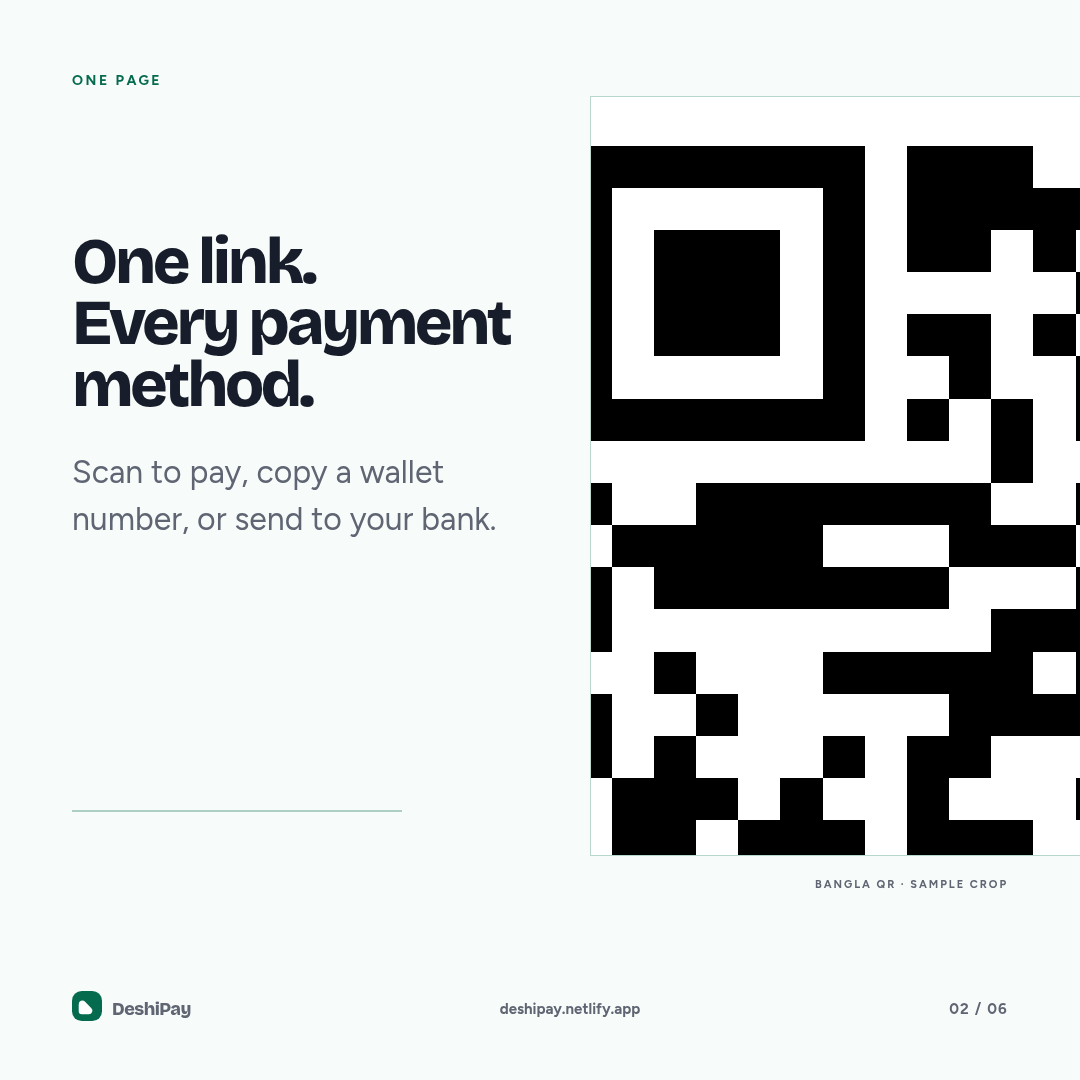
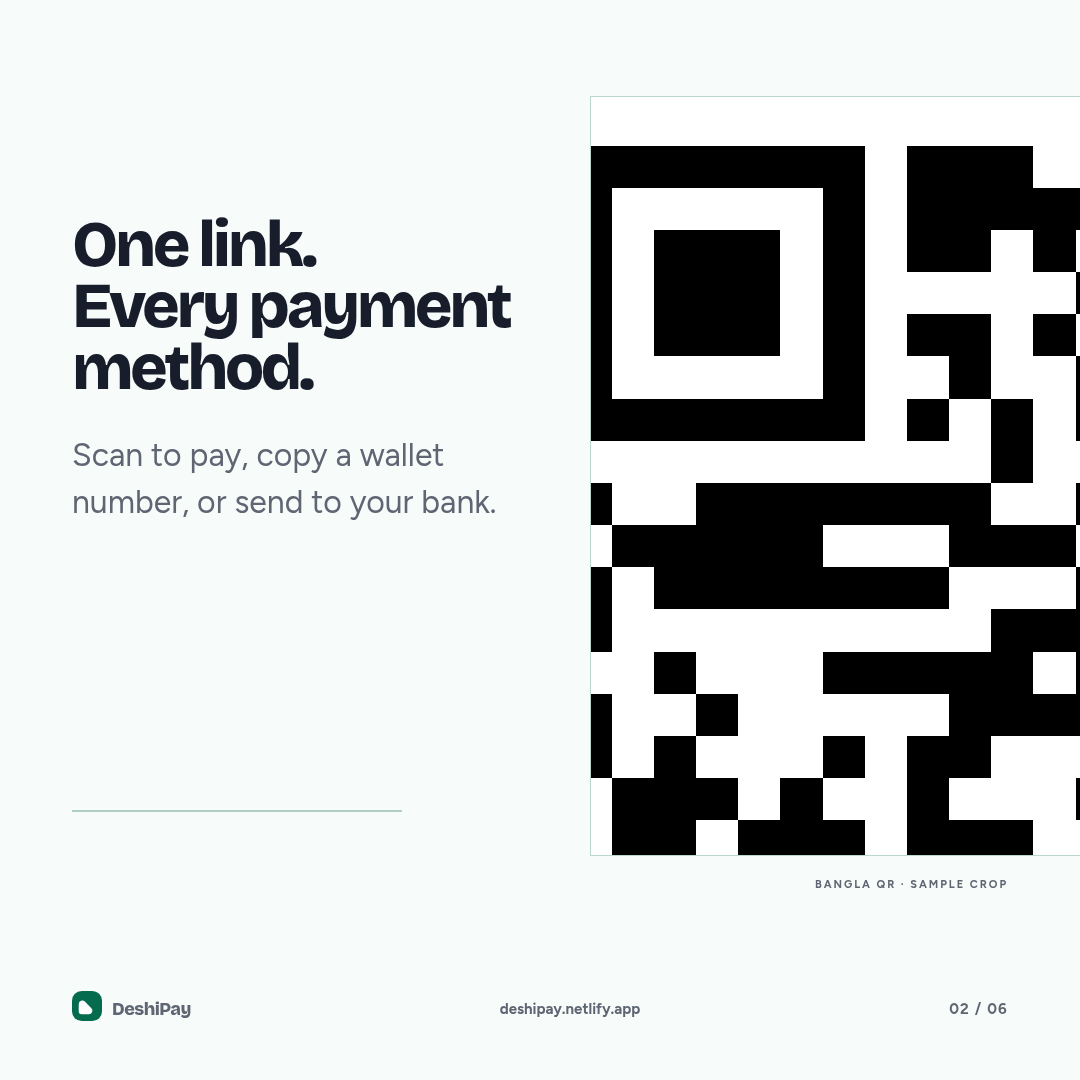
design: remove eyebrow labels; rebuild page 4 as QR-to-account
Drop the small kicker text from every social slide and replace page 4's
phone mockup with a Bangla QR poster connected directly to a 'Your account'
card, with the page marked as not in the money path.

Changed region(s): [[0.0611, 0.1833, 0.4889, 0.4889], [0.0611, 0.0611, 0.1528, 0.0917]]

diff --git a/promotionals/social/source/social.html b/promotionals/social/source/social.html
@@ -52,7 +52,7 @@
   /* page 6 ledger */
   #s6 { background: radial-gradient(circle at 82% 8%, rgba(52,214,164,.14), transparent 46%), var(--dark); }
   #s6 .kicker { color:var(--bright); }
-  #s6 .s6-head { position:relative; z-index:4; margin:64px 0 0; font-family:"Bricolage Grotesque",Arial,sans-serif; font-size:76px; line-height:.98; letter-spacing:-.05em; color:#fff; }
+  #s6 .s6-head { position:relative; z-index:4; margin:88px 0 0; font-family:"Bricolage Grotesque",Arial,sans-serif; font-size:76px; line-height:.98; letter-spacing:-.05em; color:#fff; }
   .s6-list { position:absolute; z-index:4; left:72px; right:72px; top:348px; bottom:150px; display:grid; grid-template-rows:repeat(3,1fr); border-top:1px solid rgba(230,240,237,.18); }
   .s6-row { display:grid; grid-template-columns:150px 360px 1fr; align-items:center; gap:24px; padding:0 18px 0 0; border-bottom:1px solid rgba(230,240,237,.18); }
   .s6-num { color:transparent; -webkit-text-stroke:1.5px rgba(52,214,164,.75); font:800 82px/1 "Bricolage Grotesque",Arial,sans-serif; letter-spacing:-.04em; }
@@ -79,29 +79,27 @@
 
   .s3-ghost { position:absolute; z-index:1; left:-42px; bottom:-128px; color:rgba(230,240,237,.045); font:800 450px/1 "Hind Siliguri","Noto Sans Bengali",sans-serif; letter-spacing:-.08em; pointer-events:none; }
   /* 04 phone crop */
-  #s4 .headline { font-size:54px; margin-top:150px; max-width:455px; }
+  #s4 .headline { font-size:54px; margin-top:132px; max-width:455px; }
   #s4 .body { margin-top:28px; max-width:400px; font-size:28px; }
   .s4-small { position:relative; z-index:4; margin:18px 0 0; color:var(--green); font-size:20px; font-weight:700; }
   #s4 .hairline { right:auto; width:500px; }
-  .phone-wrap { position:absolute; z-index:5; right:46px; top:126px; width:470px; }
-  .phone { width:424px; margin-left:auto; padding:10px; border-radius:54px; background:#0B1712; box-shadow:0 40px 80px -20px rgba(8,42,32,.35); transform:rotate(2.5deg); }
-  .screen { border-radius:45px; background:var(--mint); padding:20px 18px; }
-  .mini-brand { display:flex; align-items:center; gap:10px; font:800 20px "Bricolage Grotesque",Arial,sans-serif; }
-  .mini-brand .mark { width:31px; height:31px; }
-  .mini-tabs { display:flex; gap:4px; background:#fff; border-radius:14px; padding:5px; font:700 14px Figtree,sans-serif; color:var(--muted); margin-top:16px; }
-  .mini-tabs span { flex:1; text-align:center; padding:10px 3px; border-radius:10px; }
-  .mini-tabs span.on { color:var(--ink); box-shadow:0 4px 12px rgba(8,42,32,.09); }
-  .card { background:#fff; border-radius:22px; padding:18px; margin-top:14px; color:var(--ink); }
-  .payto { display:flex; justify-content:space-between; align-items:start; gap:10px; }
-  .payto small { color:var(--muted); font-size:13px; }
-  .payto b { font:800 18px "Bricolage Grotesque",Arial,sans-serif; }
-  .amount { display:flex; align-items:baseline; gap:3px; margin:13px 0 9px; font:800 40px "Bricolage Grotesque",Arial,sans-serif; letter-spacing:-.04em; }
-  .amount .sym { color:var(--green); font-size:25px; }
-  .qrbox { width:100%; aspect-ratio:1; background:#fff; overflow:hidden; }
-  .qrbox svg { display:block; width:100%; height:auto; }
-  .note { text-align:center; color:var(--muted); font-size:12.5px; line-height:1.45; margin-top:9px; }
-  .note b { color:var(--ink); }
-
+  .s4-visual { position:absolute; z-index:4; right:34px; top:64px; width:590px; height:930px; }
+  .qr-poster { position:absolute; right:34px; top:0; width:304px; padding:20px; background:#fff; transform:rotate(-3.2deg); box-shadow:0 34px 60px -40px rgba(8,42,32,.5); }
+  .qr-kicker { display:block; color:var(--green); font:800 12px Figtree,sans-serif; letter-spacing:.17em; margin-bottom:12px; }
+  .qr-poster .qrbox { border-radius:0; }
+  .qr-meta { display:flex; flex-direction:column; gap:3px; margin-top:13px; }
+  .qr-meta b { font:800 19px "Bricolage Grotesque",Arial,sans-serif; letter-spacing:-.02em; }
+  .qr-meta span { color:var(--muted); font-size:11px; }
+  .page-tag { position:absolute; left:0; top:390px; width:250px; color:var(--green); font:800 13px Figtree,sans-serif; letter-spacing:.06em; text-transform:uppercase; transform:rotate(-2deg); }
+  .page-tag span { display:block; margin-top:5px; color:var(--muted); font-weight:600; letter-spacing:0; text-transform:none; font-size:13px; }
+  .direct-rail { position:absolute; right:184px; top:414px; height:252px; width:2px; background:var(--green); }
+  .direct-rail:after { content:""; position:absolute; left:-5px; bottom:-2px; width:0; height:0; border-left:6px solid transparent; border-right:6px solid transparent; border-top:9px solid var(--green); }
+  .direct-rail span { position:absolute; left:10px; top:104px; color:var(--green); font:800 11px Figtree,sans-serif; letter-spacing:.18em; white-space:nowrap; transform:rotate(90deg); transform-origin:left top; }
+  .account-card { position:absolute; right:44px; top:620px; width:392px; padding:24px 26px; background:var(--dark); color:#fff; transform:rotate(1.4deg); box-shadow:0 28px 50px -35px rgba(8,42,32,.5); }
+  .acct-label { display:block; color:var(--bright); font:800 11px Figtree,sans-serif; letter-spacing:.18em; }
+  .account-card b { display:block; margin-top:10px; font:800 32px "Bricolage Grotesque",Arial,sans-serif; letter-spacing:-.035em; }
+  .account-card p { margin:10px 0 0; color:rgba(230,240,237,.66); font-size:18px; line-height:1.55; }
+  .acct-note { display:inline-block; margin-top:15px; padding-top:10px; border-top:1px solid rgba(230,240,237,.18); color:var(--bright); font:700 12px Figtree,sans-serif; }
   /* 05 manifesto */
   #s5 .headline { font-size:96px; line-height:1.0; margin-top:118px; max-width:860px; }
   #s5 .body { margin-top:34px; max-width:700px; color:rgba(8,42,32,.72); font-size:31px; }
@@ -128,7 +126,6 @@
   </section>
 
   <section class="slide paper" id="s2">
-    <p class="kicker">One page</p>
     <h1 class="headline">One link.<br>Every payment<br>method.</h1>
     <p class="body">Scan to pay, copy a wallet number, or send to your bank.</p>
     <div class="qr-crop" data-qr="site"></div>
@@ -138,7 +135,6 @@
   </section>
 
   <section class="slide dark" id="s3">
-    <p class="kicker">Pay any way</p>
     <div class="s3-ghost" aria-hidden="true">৳</div>
     <h1 class="headline">Customers pay<br>using any<br>Payment Method</h1>
     <p class="body">You receive it in your preferred account.</p>
@@ -148,28 +144,29 @@
   </section>
 
   <section class="slide mint" id="s4">
-    <p class="kicker">How it works</p>
     <h1 class="headline">Receive the money in any account or provider you want.</h1>
     <p class="body">Directly. No middleman involved.</p>
     <p class="s4-small">Through your Bangla QR.</p>
-    <div class="phone-wrap">
-      <div class="phone"><div class="screen">
-        <div class="mini-brand"><span data-mark></span>Your business</div>
-        <div class="mini-tabs"><span class="on">Scan QR</span><span>Wallet</span><span>Bank</span></div>
-        <div class="card">
-          <div class="payto"><small>Pay to</small><b>YOUR BUSINESS</b></div>
-          <div class="amount"><span class="sym">৳</span>500</div>
-          <div class="qrbox" data-qr="pay"></div>
-          <div class="note">Scan with <b>bKash, Nagad, Rocket</b> or any bank app.</div>
-        </div>
-      </div></div>
+    <div class="s4-visual">
+      <div class="qr-poster">
+        <span class="qr-kicker">SCAN TO PAY</span>
+        <div class="qrbox" data-qr="site"></div>
+        <div class="qr-meta"><b>Your page</b><span>deshipay.netlify.app/yourname</span></div>
+      </div>
+      <div class="page-tag">DeshiPay page <span>not in the money path</span></div>
+      <div class="direct-rail"><span>DIRECT</span></div>
+      <div class="account-card">
+        <span class="acct-label">RECEIVE TO</span>
+        <b>Your account</b>
+        <p>bKash · Nagad · Rocket<br>or your bank account</p>
+        <span class="acct-note">No middleman</span>
+      </div>
     </div>
     <div class="hairline"></div>
     <footer class="footer"><div class="brand"><span data-mark></span>DeshiPay</div><span class="mid">deshipay.netlify.app</span><span class="num">04 / 06</span></footer>
   </section>
 
   <section class="slide bright" id="s5">
-    <p class="kicker">Start here</p>
     <h1 class="headline">No commission.<br>No fees.<br>No charge.</h1>
     <p class="body">You get the money. We only host the page. Normal payment-app charges may still apply.</p>
     <a class="cta">deshipay.netlify.app</a>
@@ -179,7 +176,6 @@
   </section>
 
   <section class="slide dark" id="s6">
-    <p class="kicker">Why DeshiPay</p>
     <h1 class="s6-head">Built to be<br>trusted.</h1>
     <div class="s6-list">
       <div class="s6-row"><span class="s6-num">01</span><h2>Open source</h2><p>Read the code, fork it or self-host your page.</p></div>
@@ -190,9 +186,9 @@
   </section>
 </div>
 
-<script src="../../../site/public/js/pay-icons.js"></script>
-<script src="../../../site/public/vendor/qrcode.js"></script>
-<script src="../../../site/public/js/common.js"></script>
+<script src="file:///home/himel/Documents/deshiQR/site/public/js/pay-icons.js"></script>
+<script src="file:///home/himel/Documents/deshiQR/site/public/vendor/qrcode.js"></script>
+<script src="file:///home/himel/Documents/deshiQR/site/public/js/common.js"></script>
 <script>
 (function () {
   var PAY_PAYLOAD = "00020101021126450014bd.org.bb.npsb0102020202040311017000000005204601653030505802BD5913YOUR BUSINESS6005Dhaka62060602FT8010TOKENA/+==63049FC4";
